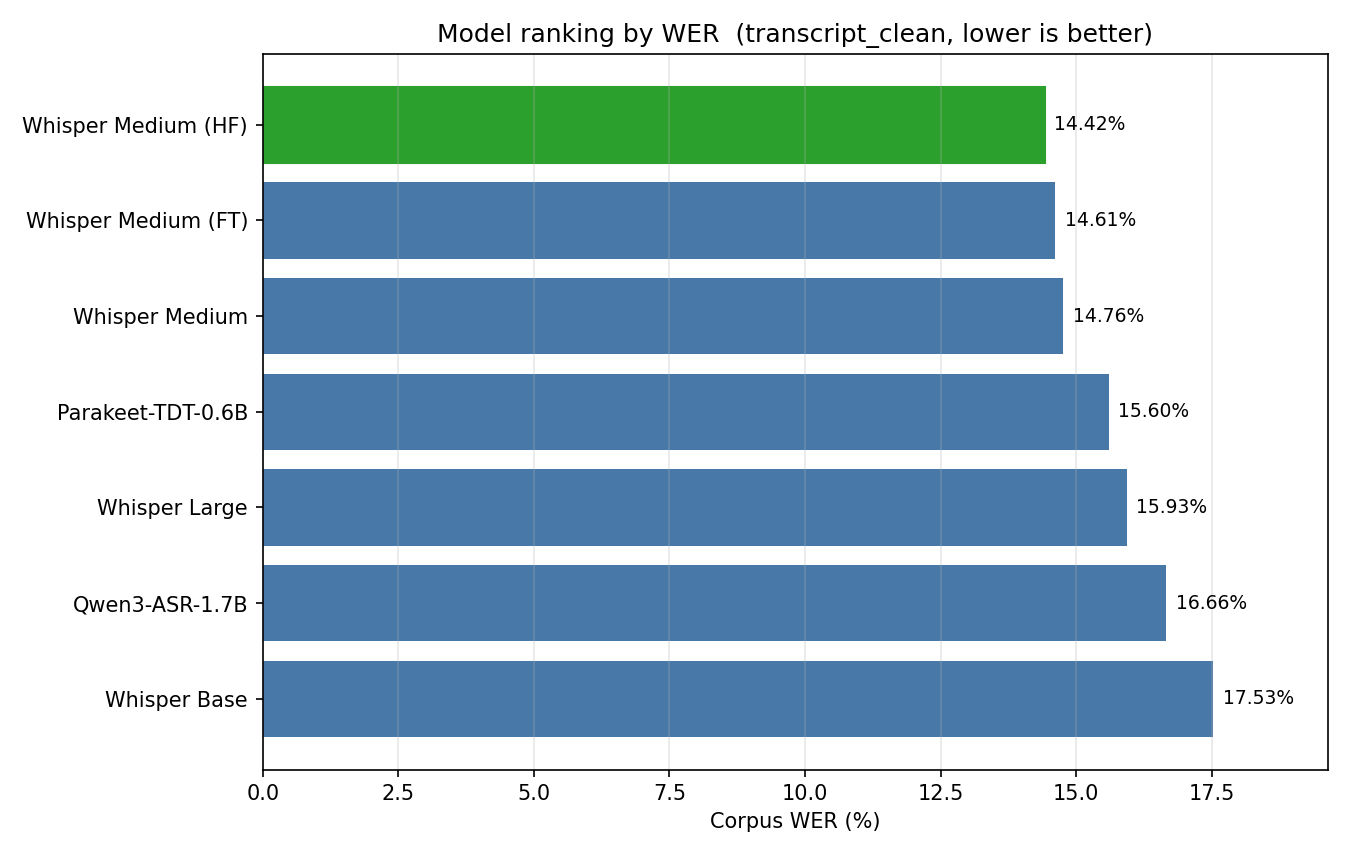
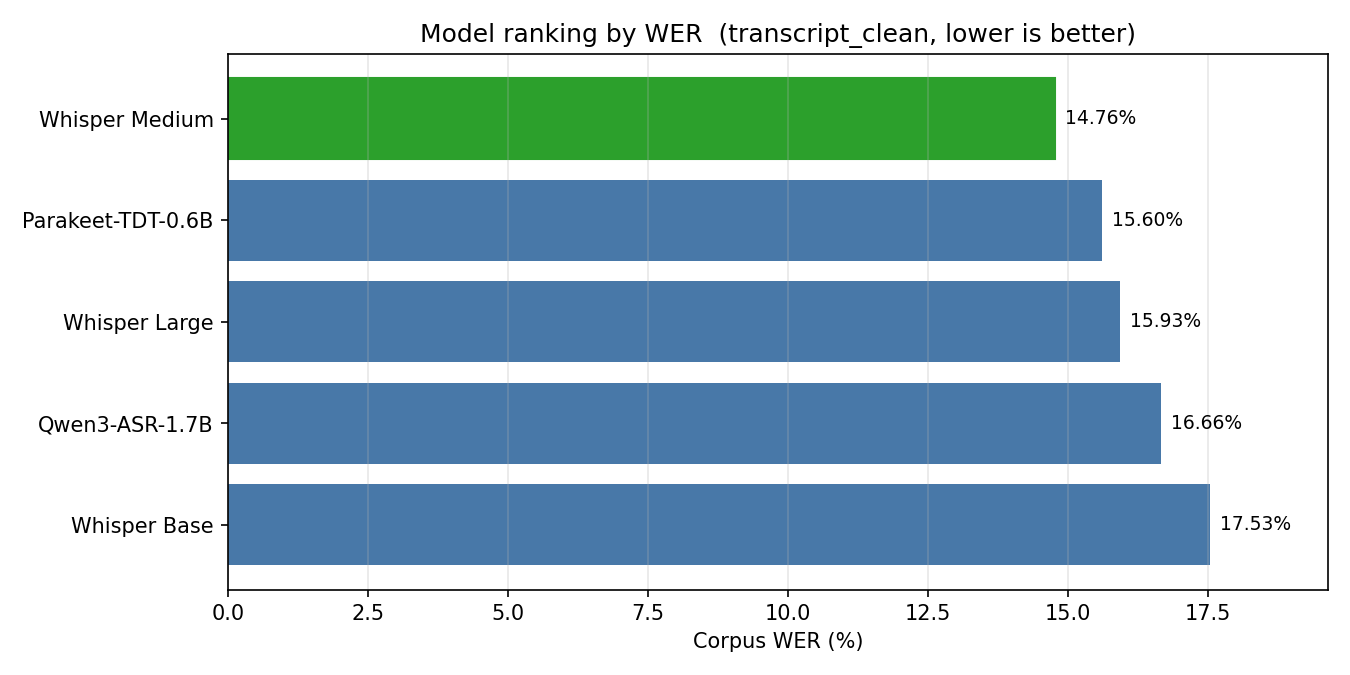
Recalc-verify WER, fix P90/P95 to repo method, decouple analysis from GPU deps, de-confound charts
- Verified Stage 2 WER (updated normalization: minimal raw cleanup + no contraction
  expansion) reproduces the committed numbers exactly for all 7 models x 4 modes; the
  changes were already applied, so only presentation fixes were needed.
- README: fix P90/P95 to the repo's index-based values (e.g. Medium P95 39.39->39.62);
  correct the 'expand contractions' wording (that step was removed); embed exactly two
  charts (headline ranking, pretrained-vs-fine-tuned).
- Charts: exclude the HF-decoded variants (medium_hf/medium_ft) from the cross-model
  ranking/grouped charts so engines aren't mixed (the ranking chart no longer shows
  medium_hf as 'best model'); data tables still include all 7. Regenerated all PNGs.
- Decouple the CPU-only Stage 2/3 pipeline from GPU-side deps: lazy-import datasets in
  io_helpers and stop eagerly importing transcribe (librosa) in utils/__init__, so
  normalize_and_score.py and analysis/ run without torch/librosa/datasets installed.

Claude-Session: https://claude.ai/code/session_01QYuRQhNuizKmDozrpscoHm

Changed region(s): [[0.0, 0.0311, 0.9956, 0.9644]]

diff --git a/analysis/compare_all.py b/analysis/compare_all.py
@@ -23,6 +23,12 @@ from utils.normalize import MODES
 from utils.io_helpers import build_md_table
 
 MODELS = ("base", "medium", "large", "parakeet", "qwen3", "medium_hf", "medium_ft")
+# Cross-model charts use only the 5 pretrained systems, all decoded with the openai-whisper
+# engine, so the comparison is apples-to-apples. The HF-decoded variants (medium_hf, medium_ft)
+# are kept in every DATA table above/below, but excluded from the ranking/grouped charts — mixing
+# decoding engines in one ranking would misleadingly show medium_hf as the "best model". The
+# fine-tuned model has its own engine-controlled charts in analysis/compare_finetune.py.
+CHART_MODELS = ("base", "medium", "large", "parakeet", "qwen3")
 PRIMARY_MODE = "transcript_clean"  # gold standard mode for breakdowns and charts
 
 MODEL_DISPLAY = {
@@ -125,11 +131,11 @@ print("=" * 70)
 plt.rcParams.update({"figure.dpi": 150, "font.size": 10})
 # Keep each model-group within ~0.8 of a unit so adjacent groups don't overlap,
 # regardless of how many models are present (5 pretrained + medium_hf + medium_ft).
-bar_width = 0.8 / len(MODELS)
+bar_width = 0.8 / len(CHART_MODELS)
 
 # Chart 0 (headline): models ranked by WER on the gold mode — clearest single view.
 gold_rows = []
-for model in MODELS:
+for model in CHART_MODELS:
     row = df_summary[df_summary["model"] == model]
     if row.empty or pd.isna(row[PRIMARY_MODE].values[0]):
         continue
@@ -160,13 +166,13 @@ fig, ax = plt.subplots(figsize=(10, 6))
 x_labels = list(MODES)
 x = range(len(x_labels))
 
-for i, model in enumerate(MODELS):
+for i, model in enumerate(CHART_MODELS):
     values = []
     for mode in MODES:
         row = df_summary[df_summary["model"] == model]
         val = row[mode].values[0] if not row.empty and pd.notna(row[mode].values[0]) else 0
         values.append(val)
-    offset = (i - (len(MODELS) - 1) / 2) * bar_width
+    offset = (i - (len(CHART_MODELS) - 1) / 2) * bar_width
     bars = ax.bar([xi + offset for xi in x], values, bar_width, label=MODEL_DISPLAY.get(model, model))
     for bar, val in zip(bars, values):
         if val > 0:
@@ -189,7 +195,7 @@ print(f"  Saved: {chart_path}")
 # Chart 2: per-utterance WER distribution, one panel per model (small multiples).
 # Y = % of that model's utterances, X = per-sample WER in 5% bins (0-100%).
 # WER > 100% (insertion-heavy) is clipped into the final bin for display.
-models_with_data = [m for m in MODELS if (m, PRIMARY_MODE) in all_data]
+models_with_data = [m for m in CHART_MODELS if (m, PRIMARY_MODE) in all_data]
 if models_with_data:
     ncols = 2
     nrows = math.ceil(len(models_with_data) / ncols)
@@ -244,9 +250,9 @@ if duration_data:
     buckets = ["0-5s", "5-15s", "15-30s", "30-60s", "60s+"]
     buckets = [b for b in buckets if b in duration_data]
     x = range(len(buckets))
-    for i, model_name in enumerate(MODELS):
+    for i, model_name in enumerate(CHART_MODELS):
         values = [duration_data.get(b, {}).get(model_name, 0) for b in buckets]
-        offset = (i - (len(MODELS) - 1) / 2) * bar_width
+        offset = (i - (len(CHART_MODELS) - 1) / 2) * bar_width
         ax.bar([xi + offset for xi in x], values, bar_width, label=MODEL_DISPLAY.get(model_name, model_name))
     ax.set_xlabel("Duration Bucket")
     ax.set_ylabel("WER (%)")
@@ -298,9 +304,9 @@ for col, chart_name in [("Native_Region", "wer_by_region.png")]:
     groups = sorted(region_data.keys())
     x = range(len(groups))
 
-    for i, model in enumerate(MODELS):
+    for i, model in enumerate(CHART_MODELS):
         values = [region_data.get(g, {}).get(model, 0) for g in groups]
-        offset = (i - (len(MODELS) - 1) / 2) * bar_width
+        offset = (i - (len(CHART_MODELS) - 1) / 2) * bar_width
         ax.bar([xi + offset for xi in x], values, bar_width, label=MODEL_DISPLAY.get(model, model))
 
     ax.set_xlabel(col)
@@ -342,7 +348,7 @@ report_lines = [
     "- `transcript_clean` is the gold standard: uses original ground truth with correct forward normalization.",
     "- `hf_raw` and `hf_clean` show the impact of the dataset's broken `Normalised_Transcript` (e.g. '1st' → 'one s t').",
     "- All modes are **symmetric**: same normalization applied to both reference and hypothesis.",
-    "- Normalization: lowercase + expand contractions + fix possessives + digits/ordinals → words (num2words).",
+    "- Full normalization (`*_clean`): fix possessives + digits/ordinals → words (num2words) + lowercase + strip punctuation. Contractions left unexpanded. `*_raw` modes: minimal cleanup only (lowercase + strip punctuation/wrapping quotes).",
     "",
     "## Column Schema",
     "",

diff --git a/utils/__init__.py b/utils/__init__.py
@@ -1,28 +1,8 @@
-from .io_helpers import (
-    load_dataset_test,
-    results_dir,
-    stage1_raw_dir,
-    build_sample_row,
-    build_md_table,
-    save_checkpoint,
-    remove_checkpoint,
-)
-from .normalize import normalize_text, MODES, get_reference_source
-from .wer_compute import compute_sample_wer, compute_corpus_wer
-from .transcribe import transcribe_sample
+"""Shared utilities.
 
-__all__ = [
-    "load_dataset_test",
-    "results_dir",
-    "stage1_raw_dir",
-    "build_sample_row",
-    "build_md_table",
-    "save_checkpoint",
-    "remove_checkpoint",
-    "normalize_text",
-    "MODES",
-    "get_reference_source",
-    "compute_sample_wer",
-    "compute_corpus_wer",
-    "transcribe_sample",
-]
+Scripts import the submodules they need directly (e.g. `from utils.normalize import ...`,
+`from utils.transcribe import transcribe_sample`), so this package intentionally does NOT
+eagerly re-export everything. Doing so would force the CPU-only Stage 2/3 pipeline
+(normalize_and_score.py, analysis/) to import the audio/transcription stack (librosa,
+torch, datasets) just to recompute WER or draw charts. Import submodules directly instead.
+"""

diff --git a/utils/io_helpers.py b/utils/io_helpers.py
@@ -5,7 +5,11 @@ import os
 
 import numpy as np
 import pandas as pd
-from datasets import load_dataset
+
+# `datasets` is only needed for Stage 1 transcription (loading the audio). It is imported
+# lazily inside load_dataset_test() so the CPU-only Stage 2/3 pipeline (normalize_and_score.py,
+# analysis/) — which only uses the CSV/markdown helpers below — does not require the heavy
+# (GPU-side) `datasets`/`torch` stack just to recompute WER or draw charts.
 
 # Resolve the HF cache from any of the common env vars so manual runs and PBS jobs
 # agree. Defaulting to $HOME/.cache fills the (small) HOME quota on HPC clusters, so
@@ -22,6 +26,8 @@ os.environ.setdefault("HF_DATASETS_CACHE", HF_CACHE)
 
 def load_dataset_test():
     """Load raianand/TIE_shorts test split."""
+    from datasets import load_dataset
+
     print("Loading dataset raianand/TIE_shorts (test split) ...")
     print(f"  Cache directory: {HF_CACHE}")
     ds = load_dataset("raianand/TIE_shorts", split="test", cache_dir=HF_CACHE)

diff --git a/README.md b/README.md
@@ -76,13 +76,17 @@ All numbers are corpus/per-sample WER on the `test` split under **`transcript_cl
 
 | Model | Corpus WER | Mean WER | Median WER | Std Dev | P90 | P95 |
 |-------|:----------:|:--------:|:----------:|:-------:|:---:|:---:|
-| **Whisper Medium** | **14.76%** | **15.45%** | **11.11%** | **15.90%** | **31.58%** | **39.39%** |
-| Parakeet-TDT-0.6B | 15.60% | 16.75% | 11.86% | 17.47% | 34.24% | 44.12% |
-| Whisper Large | 15.93% | 16.88% | 11.43% | 19.20% | 35.04% | 48.81% |
-| Qwen3-ASR-1.7B | 16.66% | 17.34% | 12.90% | 15.93% | 34.95% | 45.04% |
-| Whisper Base | 17.53% | 18.38% | 13.51% | 16.95% | 38.16% | 49.79% |
+| **Whisper Medium** | **14.76%** | **15.45%** | **11.11%** | **15.90%** | **31.58%** | **39.62%** |
+| Parakeet-TDT-0.6B | 15.60% | 16.75% | 11.86% | 17.47% | 34.38% | 44.12% |
+| Whisper Large | 15.93% | 16.88% | 11.43% | 19.20% | 35.21% | 48.94% |
+| Qwen3-ASR-1.7B | 16.66% | 17.34% | 12.90% | 15.93% | 35.00% | 45.07% |
+| Whisper Base | 17.53% | 18.38% | 13.51% | 16.95% | 38.16% | 50.00% |
 
 > The **fine-tuned** Whisper Medium is not in this ranking because it runs through a different decoder (HuggingFace `transformers`, not `openai-whisper`) — mixing it here would confound fine-tuning with a decoding-engine change. Its fair, engine-controlled comparison is in [Fine-tuning](#fine-tuning-whisper-medium).
+
+<p align="center">
+  <img src="results/analysis/wer_by_model.png" width="680" alt="Model ranking by corpus WER (transcript_clean)">
+</p>
 
 ### Key findings
 
@@ -164,8 +168,8 @@ Engine-controlled, `transcript_clean`, both decoded through the same HF chunked 
 
 | Model | Corpus WER | Mean WER | Median WER | Std Dev | P90 | P95 |
 |-------|:----------:|:--------:|:----------:|:-------:|:---:|:---:|
-| Whisper Medium — pretrained (`medium_hf`) | **14.42%** | **14.64%** | **9.84%** | 22.19% | 30.18% | 39.83% |
-| Whisper Medium — fine-tuned (`medium_ft`) | 14.61% | 14.80% | 10.14% | 27.70% | **27.79%** | **36.62%** |
+| Whisper Medium — pretrained (`medium_hf`) | **14.42%** | **14.64%** | **9.84%** | 22.19% | 30.30% | 40.00% |
+| Whisper Medium — fine-tuned (`medium_ft`) | 14.61% | 14.80% | 10.14% | 27.70% | **27.87%** | **36.62%** |
 
 Corpus WER across all four modes:
 
@@ -177,6 +181,10 @@ Corpus WER across all four modes:
 | `hf_raw` | 17.72% | 17.70% | −0.02 pp |
 
 The +0.20 pp gap is within single-run noise, so the honest claim is **"no significant gain," not "fine-tuning hurts."**
+
+<p align="center">
+  <img src="results/analysis/finetune_comparison.png" width="640" alt="Whisper Medium pretrained vs fine-tuned across all four modes">
+</p>
 
 ### Fine-tuned breakdowns (same analysis as the pretrained models)
 
@@ -246,7 +254,9 @@ Four modes cover **2 reference sources × 2 normalization states**, always appli
 | `hf_raw` | `Normalised_Transcript` | Minimal | Quantifies dataset normalization errors |
 | `hf_clean` | `Normalised_Transcript` | Forward (full) | Dataset norm + our fix |
 
-**Forward normalization** (the `*_clean` modes): Unicode NFC → expand contractions → fix possessives (`"Bernoulli's"` → `"bernoulli s"`) → ordinals/cardinals to words (`"1st"` → `"first"`, `"100"` → `"one hundred"`) → lowercase → strip punctuation → collapse whitespace.
+**Forward normalization** (the `*_clean` modes): Unicode NFC → fix possessives (`"Bernoulli's"` → `"bernoulli s"`) → ordinals/cardinals to words (`"1st"` → `"first"`, `"100"` → `"one hundred"`) → lowercase → strip punctuation → collapse whitespace. Contractions are intentionally **left unexpanded** (`"don't"` → `"dont"`, applied to both sides) so the metric doesn't reward a rewrite neither transcript uses.
+
+The `*_raw` modes apply **minimal cleanup** only — strip wrapping quotes, lowercase, remove punctuation — with no number/possessive handling.
 
 **Why the dataset's `Normalised_Transcript` is unreliable:** it maps `"the 1st component"` → `"the one s t component"` (ordinal split into characters), affecting 50+ clips and inflating `hf_raw` WER by 2–3 pp. Use `transcript_clean`.
 

diff --git a/results/analysis/summary_report.md b/results/analysis/summary_report.md
@@ -26,7 +26,7 @@
 - `transcript_clean` is the gold standard: uses original ground truth with correct forward normalization.
 - `hf_raw` and `hf_clean` show the impact of the dataset's broken `Normalised_Transcript` (e.g. '1st' → 'one s t').
 - All modes are **symmetric**: same normalization applied to both reference and hypothesis.
-- Normalization: lowercase + expand contractions + fix possessives + digits/ordinals → words (num2words).
+- Full normalization (`*_clean`): fix possessives + digits/ordinals → words (num2words) + lowercase + strip punctuation. Contractions left unexpanded. `*_raw` modes: minimal cleanup only (lowercase + strip punctuation/wrapping quotes).
 
 ## Column Schema
 
